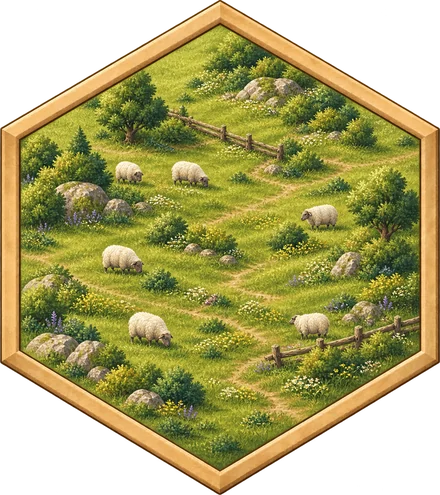
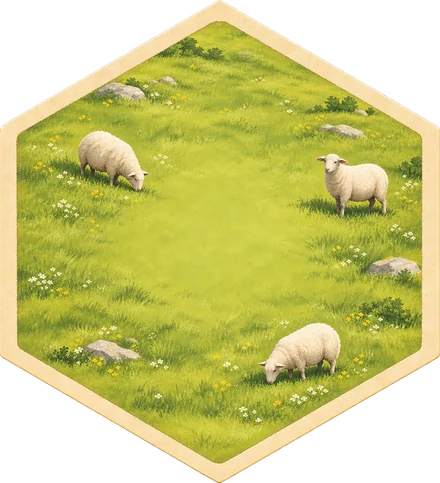
Neue Siedlungen/Städte und Feld-Hintergründe, zentrierte Spielerkarten, Bau/Handel/Weiter an den Karten, größerer Dieb, Verlauf-Fenster entfernt, Handel ohne Kachel mit großen gerahmten Kreisen
Claude-Session: https://claude.ai/code/session_011VBPhhfqbmJRD4SaiEULj2

diff --git a/public/js/ui/market.js b/public/js/ui/market.js
@@ -1,6 +1,6 @@
 // Handel: abgedunkelter Bildschirm, Rohstoffe als Kreise, Angebot → Antworten der Gegner → Bestätigung.
 import { RES, RES_INFO, COSTS } from '../engine/constants.js';
-import { esc, ic, handHTML } from './dom.js';
+import { esc, ic } from './dom.js';
 import { avatarSVG } from './avatars.js';
 
 const HUMAN = 0;
@@ -46,20 +46,20 @@ const circRow = (app, side, hand, capped) => `<div class="rc-row">${RES.map((r) 
 function stepBar(app, sides) {
   const m = app.market;
   const sel = m.sel && sides.includes(m.sel.side) ? m.sel : null;
-  if (!sel) return '<div class="tp-step idle"><span>Tippe einen Rohstoff an, dann mit − und + die Menge ändern</span></div>';
+  if (!sel) return '<div class="tp-step idle"></div>';
   const n = storeOf(m, sel.side)[sel.res] || 0;
   const hand = app.game.s.players[HUMAN].hand;
   const cap = sel.side === 'give' || sel.side === 'cgive' ? hand[sel.res] : 9;
   const btn = (d, label, off) => `<button class="step-btn" data-act="mk-step" data-side="${sel.side}" data-res="${sel.res}" data-d="${d}" aria-label="${d > 0 ? 'mehr' : 'weniger'}" ${off ? 'disabled' : ''}>${label}</button>`;
-  return `<div class="tp-step">${btn(-1, ic('minus'), n <= 0)}<div class="step-mid"><b>${n}</b><span>${RES_INFO[sel.res].name}</span></div>${btn(1, ic('plus'), n >= cap)}</div>`;
+  return `<div class="tp-step">${btn(-1, ic('minus'), n <= 0)}<b class="step-n">${n}</b>${btn(1, ic('plus'), n >= cap)}</div>`;
 }
 
-const chips = (h) => `<span class="tp-hand">${handHTML(h)}</span>`;
+const chips = (h) => `<span class="tp-hand">${RES.filter((r) => h[r] > 0).map((r) => `<span class="rcirc static r-${r}">${ic(r)}<b class="rc-n">${h[r]}</b></span>`).join('')}</span>`;
 
 function terms(leftLabel, left, rightLabel, right) {
   return `<div class="tp-terms">
     <div><span class="tp-lbl">${leftLabel}</span>${chips(left)}</div>
-    <span class="tp-arrow">⇄</span>
+    <span class="tp-arrow">${ic('trade')}</span>
     <div><span class="tp-lbl">${rightLabel}</span>${chips(right)}</div>
   </div>`;
 }
@@ -83,17 +83,17 @@ function incomingView(app, offer) {
   const m = app.market;
 
   if (myResp) {
-    return `<div class="tp-body">${who(from, 'prüft deinen Gegenvorschlag …')}
-      ${terms('Du gibst', myResp.get, 'Du erhältst', myResp.give)}<div class="tp-wait"><i></i><i></i><i></i></div></div>`;
+    return `<div class="tp-body">${who(from, 'überlegt …')}
+      ${terms('Gebe', myResp.get, 'Erhalte', myResp.give)}<div class="tp-wait"><i></i><i></i><i></i></div></div>`;
   }
 
   if (m.counterFor === offer.id) {
     const c = m.counter;
     const ready = sum(c.give) > 0 && sum(c.get) > 0 && !g.validTradeShape(c.give, c.get);
-    return `<div class="tp-body">${who(from, 'Dein Gegenvorschlag')}
-      <div class="tp-lbl">Du gibst</div>${circRow(app, 'cgive', me.hand, true)}
+    return `<div class="tp-body">${who(from, 'Gegenangebot')}
+      <div class="tp-lbl">Gebe</div>${circRow(app, 'cgive', me.hand, true)}
       <div class="tp-divider"><i></i>${ic('trade')}<i></i></div>
-      <div class="tp-lbl">Du möchtest</div>${circRow(app, 'cget', me.hand, false)}
+      <div class="tp-lbl">Erhalte</div>${circRow(app, 'cget', me.hand, false)}
       ${stepBar(app, ['cgive', 'cget'])}
       <div class="tp-actions"><button class="btn quiet" data-act="mk-counter-cancel">Zurück</button>
       <button class="btn solid grow" data-act="mk-counter-send" data-id="${offer.id}" ${ready ? '' : 'disabled'}>Gegenvorschlag senden</button></div></div>`;
@@ -101,8 +101,8 @@ function incomingView(app, offer) {
 
   const can = g.canAcceptOffer(HUMAN, offer);
   const timer = app.waitingOffer === offer.id ? `<div class="tp-timer"><i style="animation-duration:${app.offerWaitMs}ms"></i></div>` : '';
-  return `<div class="tp-body">${who(from, 'möchte tauschen')}
-    ${terms('Du erhältst', offer.give, 'Du gibst', offer.get)}
+  return `<div class="tp-body">${who(from, 'bietet')}
+    ${terms('Erhalte', offer.give, 'Gebe', offer.get)}
     ${can ? '' : `<div class="tp-hint">Dir fehlt: ${missingText(me.hand, offer.get)}</div>`}
     <div class="tp-actions">
       <button class="btn quiet" data-act="mk-decline" data-id="${offer.id}">Ablehnen</button>
@@ -119,9 +119,9 @@ function composeView(app) {
   const m = app.market;
   const valid = sum(m.give) > 0 && sum(m.get) > 0 && !g.validTradeShape(m.give, m.get) && RES.every((r) => (m.give[r] || 0) <= me.hand[r]);
   return `<div class="tp-body">
-    <div class="tp-lbl">Ich gebe</div>${circRow(app, 'give', me.hand, true)}
+    <div class="tp-lbl">Gebe</div>${circRow(app, 'give', me.hand, true)}
     <div class="tp-divider"><i></i>${ic('trade')}<i></i></div>
-    <div class="tp-lbl">Ich möchte</div>${circRow(app, 'get', me.hand, false)}
+    <div class="tp-lbl">Erhalte</div>${circRow(app, 'get', me.hand, false)}
     ${stepBar(app, ['give', 'get'])}
     <div class="tp-actions"><button class="btn solid grow" data-act="mk-send" ${valid ? '' : 'disabled'}>An alle senden</button></div></div>`;
 }
@@ -136,10 +136,10 @@ function bankView(app) {
   const ok = give && get && give !== get;
   const pick = (act, sel, r, dis, tag, have) => `<div class="rc-wrap"><button class="rcirc r-${r} ${sel ? 'sel' : ''}" data-act="${act}" data-res="${r}" aria-label="${RES_INFO[r].name}" ${dis ? 'disabled' : ''}>${ic(r)}${tag}</button><small>${have}</small></div>`;
   return `<div class="tp-body">
-    <div class="tp-lbl">Ich gebe</div>
+    <div class="tp-lbl">Gebe</div>
     <div class="rc-row">${RES.map((r, i) => pick('bank-give', give === r, r, me.hand[r] < ports[i], `<b class="rc-n ratio">${ports[i]}:1</b>`, me.hand[r])).join('')}</div>
     <div class="tp-divider"><i></i>${ic('trade')}<i></i></div>
-    <div class="tp-lbl">Ich erhalte</div>
+    <div class="tp-lbl">Erhalte</div>
     <div class="rc-row">${RES.map((r) => pick('bank-get', get === r, r, !give || r === give || g.s.bank[r] < 1, '', '')).join('')}</div>
     <div class="tp-actions"><button class="btn solid grow" data-act="bank-do" ${ok ? '' : 'disabled'}>${ok ? `${ports[RES.indexOf(give)]} ${RES_INFO[give].name} → 1 ${RES_INFO[get].name}` : 'Mit der Bank tauschen'}</button></div></div>`;
 }
@@ -168,9 +168,9 @@ function awaitView(app, offer) {
       <span class="aw-av">${avatarSVG(p.face, p.color, 76)}${badge}</span><b>${esc(p.name)}</b><small>${esc(label)}</small></button>`;
   };
   return `<div class="aw">
-    <div class="aw-offer">${terms('Du gibst', offer.give, 'Du möchtest', offer.get)}</div>
+    <div class="aw-offer">${terms('Gebe', offer.give, 'Erhalte', offer.get)}</div>
     <div class="aw-row">${others.map(card).join('')}</div>
-    <div class="aw-msg">${!finished ? 'Die Spieler überlegen …' : actionable ? 'Tippe auf einen Spieler, um den Handel zu bestätigen.' : 'Niemand möchte zu diesen Bedingungen tauschen.'}</div>
+    ${finished && !actionable ? '<div class="aw-msg">Niemand tauscht zu diesen Bedingungen.</div>' : ''}
     <div class="aw-actions">${finished && !actionable
     ? '<button class="btn" data-act="mk-retry">Angebot ändern</button><button class="btn quiet" data-act="mk-withdraw-close">Schließen</button>'
     : `<button class="btn quiet" data-act="mk-withdraw" data-id="${offer.id}">Angebot zurückziehen</button>`}</div>
@@ -186,8 +186,8 @@ function confirmView(app, offer, pid) {
   const counter = r.type === 'counter';
   const give = counter ? r.give : offer.give; // Gegenangebote stehen aus Sicht des Anbieters (= du)
   const get = counter ? r.get : offer.get;
-  return `<div class="tp-body">${who(p, counter ? 'macht dir ein Gegenangebot' : 'ist einverstanden')}
-    ${terms('Du gibst', give, 'Du erhältst', get)}
+  return `<div class="tp-body">${who(p, counter ? 'Gegenangebot' : 'einverstanden')}
+    ${terms('Gebe', give, 'Erhalte', get)}
     <div class="tp-actions"><button class="btn quiet" data-act="mk-confirm-cancel">Zurück</button>
     <button class="btn solid grow" data-act="mk-confirm" data-id="${offer.id}" data-pid="${pid}">${counter ? 'Gegenangebot annehmen' : 'Handel bestätigen'}</button></div></div>`;
 }
@@ -227,7 +227,7 @@ export function renderMarket(app) {
 
   const tab = m.tab === 'bank' ? 'bank' : 'players';
   return {
-    html: `<div class="tp-back" data-act="mk-close"></div>
+    html: `<div class="tp-back dark" data-act="mk-close"></div>
       <div class="tp own" role="dialog" aria-label="Handel">
         <div class="tp-top">
           <div class="seg tiny"><button class="${tab === 'players' ? 'on' : ''}" data-act="mk-tab" data-tab="players">Spieler</button><button class="${tab === 'bank' ? 'on' : ''}" data-act="mk-tab" data-tab="bank">Bank</button></div>

diff --git a/public/css/style.css b/public/css/style.css
@@ -1201,3 +1201,88 @@ td.who { display: flex; align-items: center; gap: 8px; }
 .fab-item.dis .fi-text { opacity: .6; }
 .fab-item .fi-state { display: none; }
 .fab-item .fi-ico .tool-piece { height: 32px; }
+
+/* ==========================================================================
+   v4: zentrierte Spielerkarten, Knöpfe direkt an den Karten, Handel ohne Kachel/Karte
+   ========================================================================== */
+.bottombar { display: contents; }
+@media (min-width: 861px) and (min-height: 521px) {
+  .hdr { display: grid; grid-template-columns: minmax(0, 1fr) auto minmax(0, 1fr); gap: 12px; }
+  .hdr-left { justify-self: start; }
+  .hdr-players { justify-self: center; overflow: visible; }
+  .hdr-btns { justify-self: end; }
+  .bottombar { position: absolute; left: 0; right: 0; bottom: 0; z-index: 6; display: flex; justify-content: center; align-items: flex-end; gap: 28px; padding: 0 16px 12px; pointer-events: none; }
+  .bottombar > * { pointer-events: auto; }
+  .bottombar .fab, .bottombar .nextwrap { position: static; }
+  .bottombar .nextwrap { align-self: flex-end; margin-bottom: 6px; }
+  .bottombar .fab { margin-bottom: 0; }
+  .bottombar .handbar { position: relative; left: auto; right: auto; bottom: auto; height: 100px; flex: 0 1 auto; display: block; pointer-events: none; margin-bottom: -18px; }
+  .bottombar .hand-fan { justify-content: center; }
+  .bottombar .hand-fan:empty { width: 120px; }
+  .zoom { bottom: 16px; }
+}
+
+/* Handel: kein Kartenfenster – große Kreise direkt auf dem abgedunkelten Spiel */
+.tp-layer { display: flex; align-items: center; justify-content: center; }
+.tp-layer .tp, .tp-layer .tp.own, .tp-layer .tp.in, .tp-layer .tp.conf { position: relative; left: auto; right: auto; top: auto; bottom: auto; transform: none; width: min(640px, 100%); max-height: 100%; background: none; border: 0; box-shadow: none; border-radius: 0; padding: 0; overflow: visible; z-index: 3; }
+.tp-layer .tp.enter, .tp-layer .tp.own.enter, .tp-layer .tp.in.enter, .tp-layer .tp.conf.enter { animation: tpFade .28s ease-out; }
+@keyframes tpFade { from { opacity: 0; transform: scale(.94); } }
+.tp-layer .tp-back { z-index: 1; }
+.tp-layer .tp-back.dark { background: rgba(3, 8, 16, .8); backdrop-filter: blur(5px); }
+.tp-layer .tp-back.dark.light { background: rgba(3, 8, 16, .55); backdrop-filter: none; }
+.tp-layer .aw, .tp-layer .aw-dim { z-index: 2; }
+.tp-top { justify-content: center; padding: 0 0 6px; position: relative; }
+.tp-top .seg { flex: 0 1 260px; background: rgba(255, 255, 255, .08); }
+.tp-top .icon-btn { position: absolute; right: 0; top: 50%; transform: translateY(-50%); }
+.tp-body { padding: 8px; gap: 18px; align-items: center; }
+.tp-lbl { font-size: 11px; letter-spacing: .14em; color: var(--muted); text-align: center; }
+.tp-terms { background: none; padding: 0; gap: 22px; }
+.tp-terms > div { gap: 10px; }
+.tp-hand { gap: 10px; }
+.tp-arrow { color: var(--muted); }
+.tp-arrow .ic { width: 26px; height: 26px; }
+.tp-who { justify-content: center; }
+.tp-divider { width: min(420px, 80%); }
+.tp-actions { width: min(460px, 100%); }
+.tp-actions .btn { padding: 15px 18px; font-size: 16px; border-radius: 999px; }
+.tp-step { background: none; min-height: 0; gap: 26px; padding: 0; }
+.tp-step.idle { min-height: 64px; }
+.step-btn { width: 60px; height: 60px; border: 2px solid rgba(255, 255, 255, .28); background: rgba(255, 255, 255, .08); }
+.step-btn .ic { width: 24px; height: 24px; }
+.step-n { font-size: 40px; min-width: 56px; text-align: center; }
+
+/* Kreise: groß, mit passendem Rahmen */
+.rc-row { gap: 18px; }
+.rcirc { width: 84px; height: 84px; border: 5px solid color-mix(in srgb, var(--rc) 55%, #1a1204 45%); opacity: .62;
+  background: radial-gradient(circle at 34% 26%, color-mix(in srgb, var(--rc) 60%, #fff 40%), var(--rc) 52%, color-mix(in srgb, var(--rc) 62%, #000 38%));
+  box-shadow: 0 0 0 3px #d9b45a, 0 0 0 5px rgba(60, 40, 8, .9), 0 10px 20px rgba(0, 0, 0, .5), inset 0 3px 8px rgba(255, 255, 255, .28), inset 0 -6px 12px rgba(0, 0, 0, .3); }
+.rcirc .ic { width: 52px; height: 52px; }
+.rcirc.sel { border-color: #fff5d6; box-shadow: 0 0 0 3px #f6d675, 0 0 0 5px rgba(60, 40, 8, .9), 0 0 28px rgba(246, 214, 117, .55), 0 10px 20px rgba(0, 0, 0, .5), inset 0 3px 8px rgba(255, 255, 255, .28); transform: scale(1.08); }
+.rcirc.static { opacity: 1; width: 70px; height: 70px; cursor: default; }
+.rcirc.static .ic { width: 42px; height: 42px; }
+.rcirc.static:hover { transform: none; }
+.rc-n { top: -8px; right: -8px; min-width: 30px; height: 30px; font-size: 16px; border: 2px solid #d9b45a; }
+.rc-n.ratio { font-size: 12px; }
+.rc-wrap small { font-size: 12px; }
+.aw-av .avatar-svg { width: 88px !important; height: 88px !important; }
+.aw-offer .tp-terms { background: none; border: 0; box-shadow: none; }
+
+@media (max-width: 860px) {
+  .rcirc { width: 62px; height: 62px; border-width: 4px; }
+  .rcirc .ic { width: 38px; height: 38px; }
+  .rc-row { gap: 10px; }
+  .rcirc.static { width: 58px; height: 58px; }
+  .rc-n { min-width: 26px; height: 26px; font-size: 14px; }
+  .step-btn { width: 54px; height: 54px; }
+  .tp-actions { flex-wrap: wrap; }
+  .aw-av .avatar-svg { width: 70px !important; height: 70px !important; }
+}
+@media (max-height: 520px) and (orientation: landscape) {
+  .rcirc { width: 52px; height: 52px; border-width: 3px; }
+  .rcirc .ic { width: 32px; height: 32px; }
+  .rc-row { gap: 8px; }
+  .tp-body { gap: 8px; }
+  .step-btn { width: 44px; height: 44px; }
+  .step-n { font-size: 30px; }
+  .tp-actions .btn { padding: 10px 14px; }
+}

diff --git a/public/js/main.js b/public/js/main.js
@@ -10,7 +10,7 @@ import {
 import { installIcons } from './ui/icons.js';
 import { renderMenu, rememberLast } from './ui/menu.js';
 import {
-  renderHand, renderHandBar, renderPlayers, renderFab, renderNext, renderDice, renderMissionBox, renderLogBox, renderHeroRoll,
+  renderHand, renderHandBar, renderPlayers, renderFab, renderNext, renderDice, renderMissionBox, renderHeroRoll,
 } from './ui/panels.js';
 import { renderMarket, suggestTrade } from './ui/market.js';
 import { sfx } from './ui/sfx.js';
@@ -405,8 +405,7 @@ class App {
       case 'trade': this.mode = null; this.ui.fabOpen = false; this.openMarket(); break;
       case 'dev': this.modal = devModal(this); break;
       case 'tokens': this.modal = tokensModal(this); break;
-      case 'toggle-missions': this.ui.missionsOpen = !this.ui.missionsOpen; this.ui.logOpen = false; this.queueRender(); break;
-      case 'toggle-log': this.ui.logOpen = !this.ui.logOpen; this.ui.missionsOpen = false; this.queueRender(); break;
+      case 'toggle-missions': this.ui.missionsOpen = !this.ui.missionsOpen; this.queueRender(); break;
       default: break;
     }
   }
@@ -671,9 +670,6 @@ class App {
     $('#diceBox').innerHTML = renderDice(g, this.rolling);
     this.renderMarketLayer();
     $('#missionBox').innerHTML = renderMissionBox(g, this.ui.missionsOpen);
-    $('#logBox').innerHTML = renderLogBox(g, this.ui.logOpen);
-    const ll = $('#logBox .loglist');
-    if (ll) ll.scrollTop = ll.scrollHeight;
 
     if (s.phase === 'main' && s.sub === 'discard' && s.discard[HUMAN] !== undefined) this.ensure('discard', () => discardModal(this, s.discard[HUMAN]));
     if (s.phase === 'main' && s.sub === 'gold' && s.gold[HUMAN]) this.ensure('gold', () => goldModal(this, s.gold[HUMAN]));
@@ -717,7 +713,7 @@ class App {
     const groups = [...fan.children].filter((c) => c.classList.contains('rgroup') || c.classList.contains('dgroup'));
     const cw = parseFloat(getComputedStyle(fan).getPropertyValue('--cw')) || 64;
     const gap = parseFloat(getComputedStyle(fan).getPropertyValue('--gap')) || 18;
-    const avail = fan.parentElement.clientWidth - 32;
+    const avail = Math.max(240, window.innerWidth - 660);
     const extra = groups.reduce((a, g2) => a + g2.children.length - 1, 0);
     const fixed = groups.length * cw + (groups.length - 1) * gap;
     const step = extra > 0 ? Math.max(9, Math.min(cw * 0.5, (avail - fixed) / extra)) : cw * 0.5;

diff --git a/public/js/ui/boardView.js b/public/js/ui/boardView.js
@@ -26,15 +26,15 @@ const CITY = 'M-0.3,0.2 L-0.3,-0.06 L-0.1,-0.06 L-0.1,-0.26 L0.05,-0.4 L0.2,-0.2
 /** Illustrierte Siedlung/Stadt: Boden des sichtbaren Inhalts sitzt knapp unter der Ecke. */
 function pieceImage(kind, hex, vx, vy, extra = '') {
   const b = PIECE_BOX[kind];
-  const w = (b.w * b.target) / b.b;
-  const h = (b.h * b.target) / b.b;
+  const w = (b.w * b.target) / (b.r - b.l);
+  const h = (b.h * b.target) / (b.r - b.l);
   const x = vx - ((b.l + b.r) / 2 / b.w) * w;
   const y = vy + (kind === 'city' ? 0.26 : 0.22) - (b.b / b.h) * h;
-  const shadow = `<ellipse cx="${vx.toFixed(3)}" cy="${(vy + 0.2).toFixed(3)}" rx="${(w * 0.34).toFixed(3)}" ry="${(w * 0.1).toFixed(3)}" class="piece-shadow"/>`;
+  const shadow = `<ellipse cx="${vx.toFixed(3)}" cy="${(vy + 0.2).toFixed(3)}" rx="${(w * 0.4).toFixed(3)}" ry="${(w * 0.11).toFixed(3)}" class="piece-shadow"/>`;
   return `${shadow}<image href="${piece(COLOR_ID[hex] || 'blue', kind)}" x="${x.toFixed(3)}" y="${y.toFixed(3)}" width="${w.toFixed(3)}" height="${h.toFixed(3)}" class="piece-img" ${extra}/>`;
 }
 
-const THIEF_W = 0.64;
+const THIEF_W = 0.86;
 function thiefImage(extra = '') {
   return `<image href="${IMG.thief}" x="${-THIEF_W / 2}" y="${-THIEF_W * 1.024}" width="${THIEF_W}" height="${THIEF_W * 1.024}" class="piece-img" ${extra}/>`;
 }
@@ -351,7 +351,7 @@ export class BoardView {
 
     // Räuber
     const rh = board.hexes[s.robber];
-    out.push(`<g transform="translate(${rh.x},${rh.y + 0.8})" class="robber"><g class="robber-in">${art.ok ? `<ellipse cx="0" cy="0" rx="0.3" ry="0.09" fill="rgba(0,0,0,.45)"/>${thiefImage()}` : `<g transform="translate(0,-.34)">${ROBBER}</g>`}</g></g>`);
+    out.push(`<g transform="translate(${rh.x},${rh.y + 0.8})" class="robber"><g class="robber-in">${art.ok ? `<ellipse cx="0" cy="0" rx="0.4" ry="0.115" fill="rgba(0,0,0,.4)"/>${thiefImage()}` : `<g transform="translate(0,-.34)">${ROBBER}</g>`}</g></g>`);
 
     // Hervorhebungen (klickbar) – ruhig, mit Vorschau der Figur beim Darüberfahren
     const ghost = ui.ghost || {};

diff --git a/public/index.html b/public/index.html
@@ -36,15 +36,16 @@
 
       <div class="floatcol">
         <div id="missionBox" class="floatbox"></div>
-        <div id="logBox" class="floatbox"></div>
       </div>
       <div id="diceBox" class="dicebox"></div>
       <div id="diceHero" class="dicehero"></div>
       <div id="heroRoll" class="heroroll"></div>
       <aside id="market" class="tp-layer"></aside>
-      <div id="fab" class="fab"></div>
-      <div id="nextWrap" class="nextwrap"></div>
-      <div id="handBar" class="handbar"><div id="handFan" class="hand-fan" aria-label="Deine Rohstoffkarten"></div></div>
+      <div class="bottombar">
+        <div id="fab" class="fab"></div>
+        <div id="handBar" class="handbar"><div id="handFan" class="hand-fan" aria-label="Deine Rohstoffkarten"></div></div>
+        <div id="nextWrap" class="nextwrap"></div>
+      </div>
 
       <div class="zoom">
         <button id="zoomIn" aria-label="Vergrößern"></button>

diff --git a/public/js/ui/assets.js b/public/js/ui/assets.js
@@ -91,8 +91,9 @@ export async function setArtStyle(id) {
 
 // Sichtbarer Inhalt (Bildbereich ohne transparenten Rand), in Bildpixeln – für die Platzierung auf dem Brett.
 export const PIECE_BOX = {
-  settlement: { w: 191, h: 192, l: 14, r: 189, b: 185, target: 0.7 },
-  city: { w: 192, h: 192, l: 18, r: 184, b: 179, target: 0.9 },
+  // w/h = Bildgröße, l/r = sichtbarer Inhalt waagerecht, b = unterste sichtbare Zeile, target = Breite des Inhalts auf dem Brett (Kante = 1)
+  settlement: { w: 256, h: 256, l: 8, r: 248, b: 252, target: 0.96 },
+  city: { w: 256, h: 256, l: 12, r: 244, b: 252, target: 1.2 },
 };
 function load(src) {
   return new Promise((resolve) => {

diff --git a/public/assets/README.md b/public/assets/README.md
@@ -9,9 +9,9 @@ Illustrierte Grafiken aus dem **Community Asset Pack** und dem **Devcards Pack**
 
 | Ordner | Inhalt | Verwendung |
 | --- | --- | --- |
-| `illustrated/pieces/` | Siedlung und Stadt (192 px) in 6 Spielerfarben (Straßen werden als SVG gezeichnet, siehe `js/ui/road.js`) | Spielfiguren auf dem Brett, Vorschau beim Bauen |
+| `illustrated/pieces/` | Siedlung und Stadt (256 px, v2 aus dem Siedlungs-/Städte-Paket, aus den 6er-Sheets geschnitten) in 6 Spielerfarben (Straßen werden als SVG gezeichnet, siehe `js/ui/road.js`) | Spielfiguren auf dem Brett, Vorschau beim Bauen |
 | `art-v2/resources/`, `art-v2/harbors/`, `art-v2/fog/` | Neue Rohstoffe, Hafenmedaillons (3:1 und 5× 2:1), Nebelkachel | Felder, Rohstoffkarten, Chips, Häfen, Nebel |
-| `hexbg/` | Komplette Feld-Hintergründe (Wald, Weide, Lehm, Getreide, Erz, Wüste, Wahlfeld) aus *Catan Hex Backgrounds v1*, auf 440 px zugeschnitten (die Dateinamen im Paket waren vertauscht; nach Inhalt zugeordnet) | Felder im Stil „Illustriert“, Zahl liegt mittig, keine Feld-Icons |
+| `hexbg/` | Komplette Feld-Hintergründe (Wald, Weide, Lehm, Getreide, Erz, Wahlfeld) aus *Catan Settlements, Cities & Backgrounds v1* (reduzierte Varianten mit freier Mitte für die Zahl); die Wüste stammt aus *Catan Hex Backgrounds v1*; auf 440 px zugeschnitten | Felder im Stil „Illustriert“, Zahl liegt mittig, keine Feld-Icons |
 | `vector-svg/` | Pfad-basierte SVG-Variante derselben Motive | Grafikstil „Vektor“ |
 | `illustrated/resources/` | Früherer Satz: Holz, Lehm, Wolle, Getreide, Erz (WebP) | Grafikstil „Klassisch“ |
 | `illustrated/special/harbor-3to1.webp` | Runder 3:1-Hafen-Marker (v2) | 3:1-Häfen auf dem Brett, Häfen |
